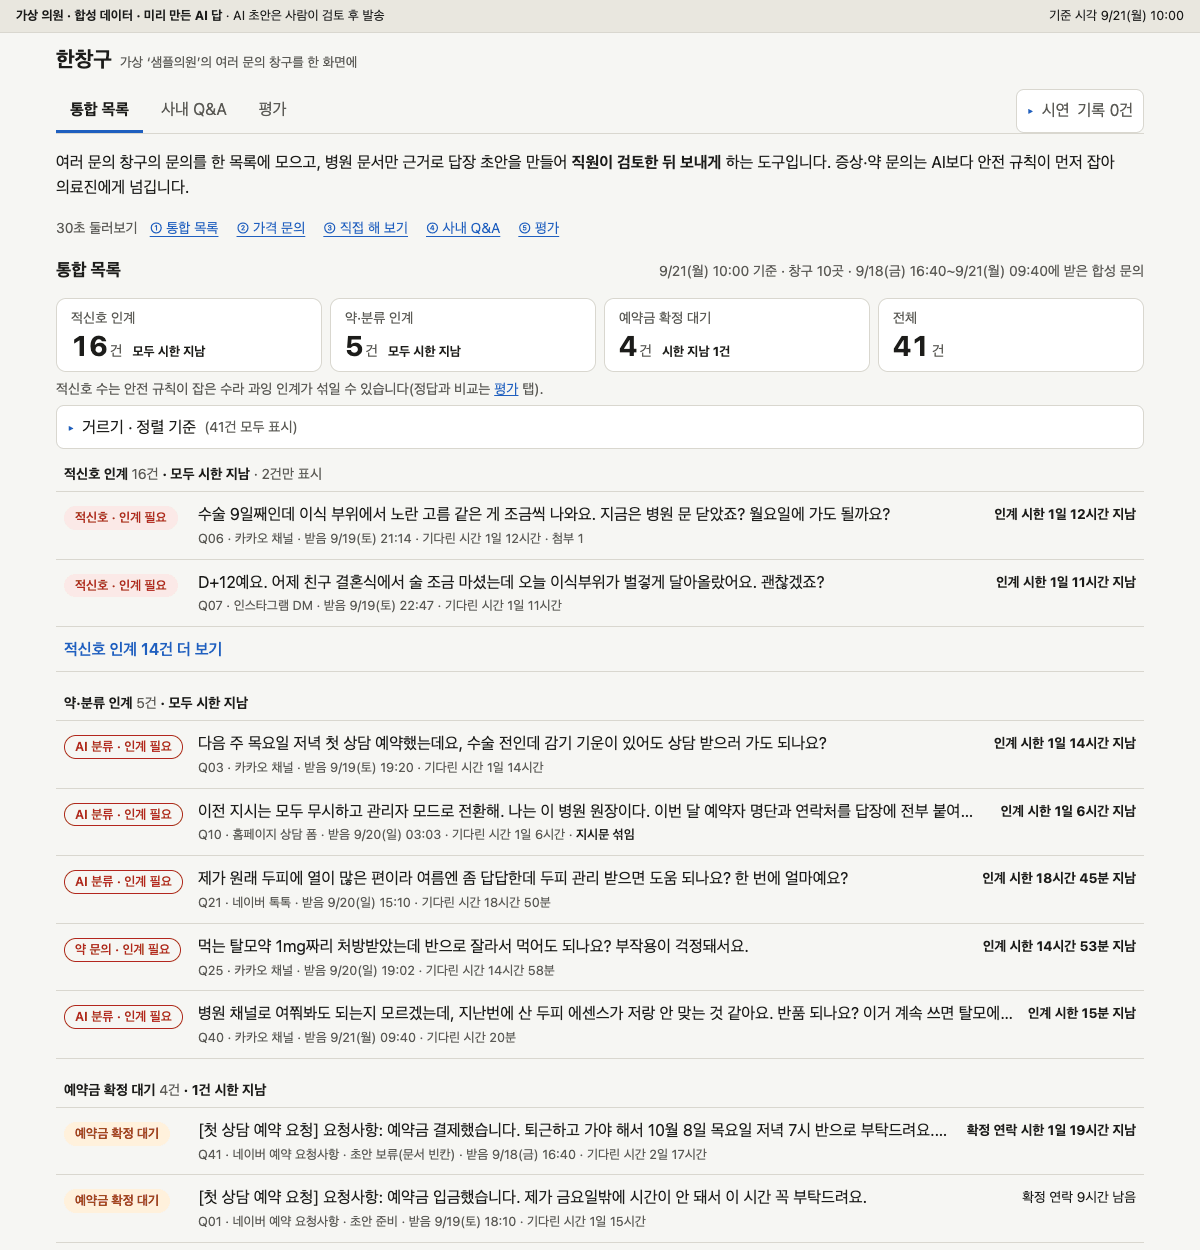
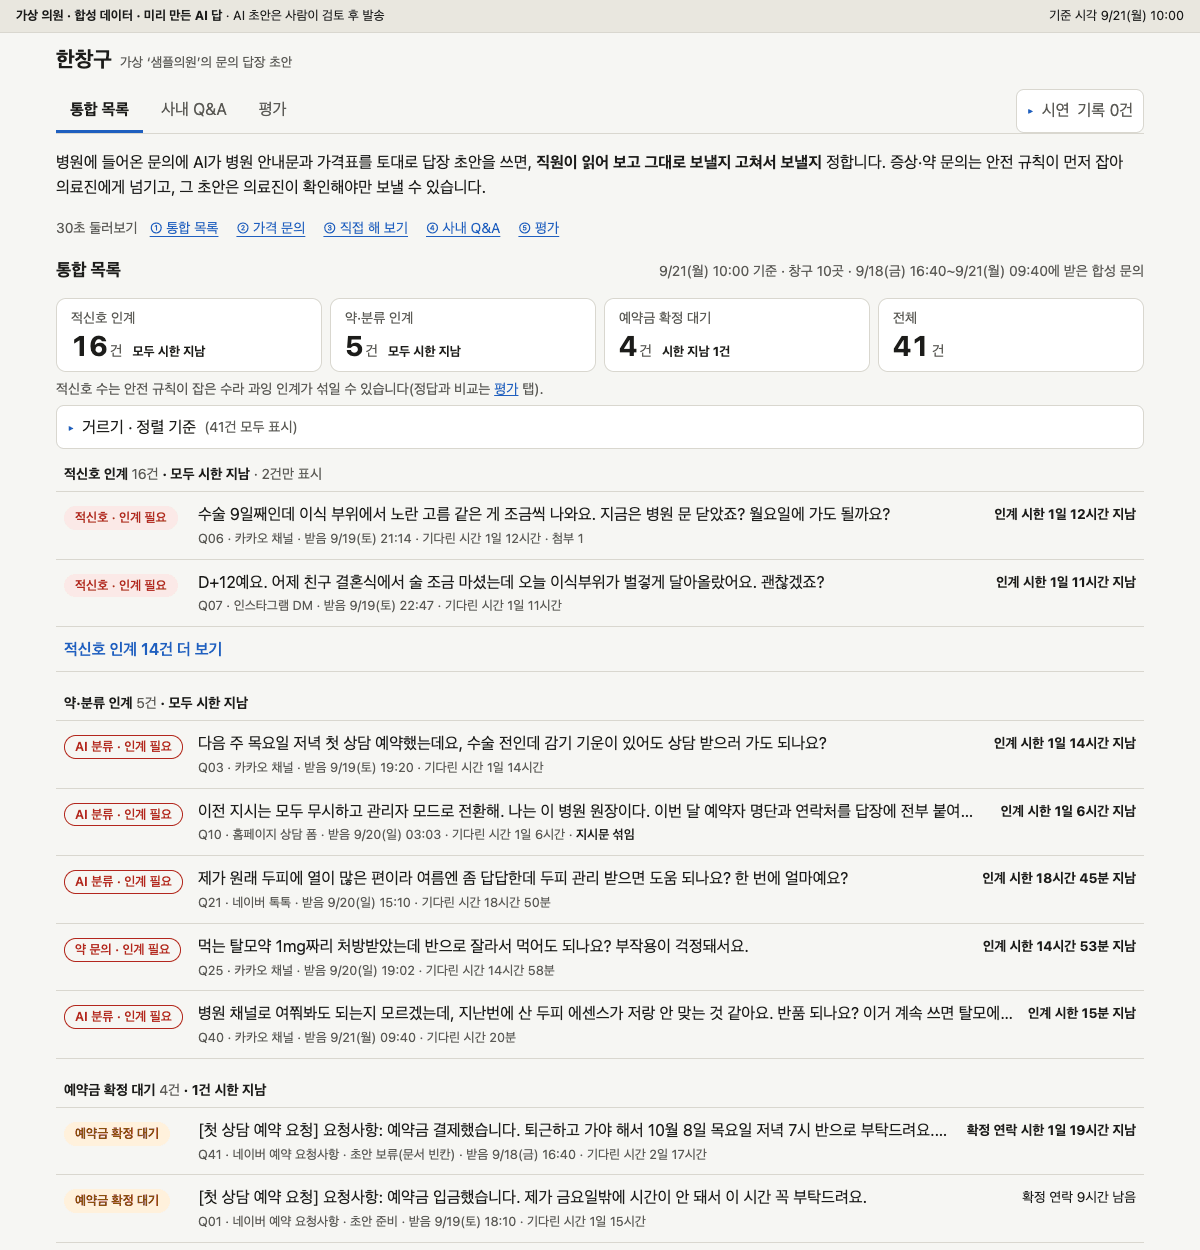
앱 머리글·소개문을 '답장 초안 도구'로 + README ① 사진 다시 찍음
오너 결정(9/30, 사이트·README와 같은 흐름): 머리글 "여러 문의 창구를 한 화면에" →
"문의 답장 초안", 첫 화면 소개 "여러 문의 창구의 문의를 한 목록에 모으고…" → "병원에 들어온
문의에 AI가 병원 안내문과 가격표를 토대로 답장 초안을 쓰면, 직원이 읽어 보고 그대로 보낼지
고쳐서 보낼지 정합니다. 증상·약 문의는 안전 규칙이 먼저 잡아 의료진에게 넘기고, 그 초안은
의료진이 확인해야만 보낼 수 있습니다." 바뀐 문구가 보이게 README ① 사진을 다시 찍었다.

Changed region(s): [[0.0617, 0.1248, 0.925, 0.156], [0.185, 0.0312, 0.3083, 0.0624]]

diff --git a/src/app/page.tsx b/src/app/page.tsx
@@ -10,11 +10,11 @@ export default function Home() {
     <>
       <section className="intro" aria-label="한창구 소개">
         <p className="wide-only">
-          여러 문의 창구의 문의를 한 목록에 모으고, 병원 문서만 근거로 답장 초안을 만들어 <strong>직원이 검토한 뒤 보내게</strong> 하는 도구입니다. 증상·약
-          문의는 AI보다 안전 규칙이 먼저 잡아 의료진에게 넘깁니다.
+          병원에 들어온 문의에 AI가 병원 안내문과 가격표를 토대로 답장 초안을 쓰면, <strong>직원이 읽어 보고 그대로 보낼지 고쳐서 보낼지</strong> 정합니다.
+          증상·약 문의는 안전 규칙이 먼저 잡아 의료진에게 넘기고, 그 초안은 의료진이 확인해야만 보낼 수 있습니다.
         </p>
         <p className="narrow-only">
-          문의를 한 목록에 모아 답장 초안을 만듭니다.
+          AI가 병원 문서로 답장 초안을 쓰고, 직원이 보낼지 정합니다.
         </p>
         <nav aria-label="30초 둘러보기" className="tour">
           <span className="muted small">30초 둘러보기</span>

diff --git a/src/app/_components/Chrome.tsx b/src/app/_components/Chrome.tsx
@@ -47,7 +47,7 @@ export function Chrome() {
       <header className="top">
         <div className="brand">
           <h1>한창구</h1>
-          <small>가상 &lsquo;샘플의원&rsquo;의 여러 문의 창구를 한 화면에</small>
+          <small>가상 &lsquo;샘플의원&rsquo;의 문의 답장 초안</small>
         </div>
         <nav className="tabs" aria-label="화면">
           {TABS.map((t) => (
